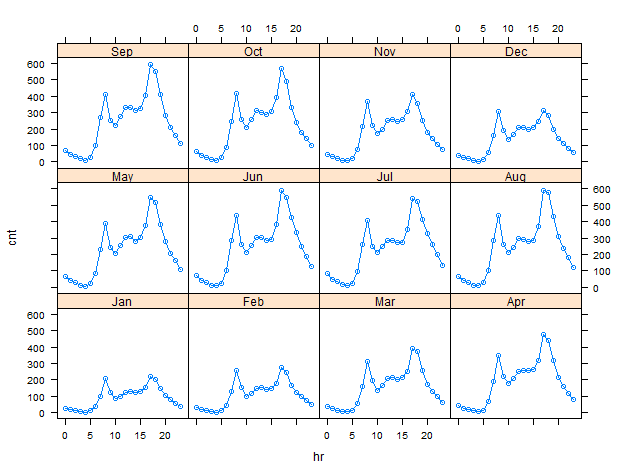
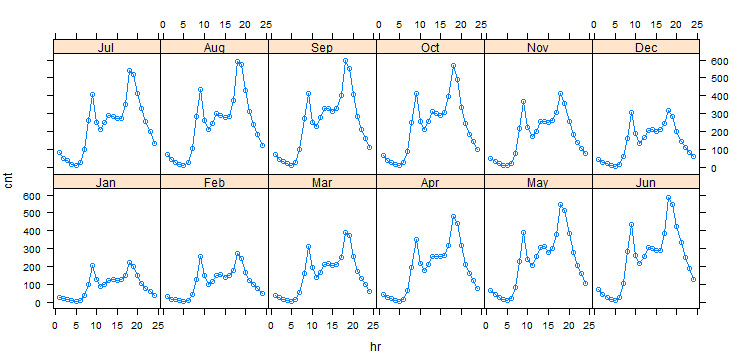
more updates in vasualization

Changed region(s): [[0.0306, 0.0311, 1.0, 0.9633], [0.0, 0.4661, 0.0306, 0.5282], [0.4903, 0.9633, 0.521, 0.9944]]

diff --git a/final_report.tex b/final_report.tex
@@ -209,10 +209,10 @@
 	
 	Moreover, the hierarchical clustering grouped atemp and temp, cnt and registered, season and month, hum and weathersit, weekday and workingday together in the lowest level.  If we want two clusters from the hierarchical clustering, we will get atemp, temp, casual, cnt, registered, season, mnth, yr as one cluster; and hum, weathersit, weekday, workingday, holiday, windspeed as the other cluster.
 	
-	These correlations give us an insight about the dataset. 	Based on the above observations, we decided to further investigate on the following relationships: 1) temp/weathersit to cnt, 2) workingday (weekday and non-holiday) to cnt, 3) hr/workingday to cnt, 4)season/mnth to cnt, 5) registered to casual. 
+	These correlations give us an insight about the dataset. 	Based on the above observations, we decided to further investigate on the following relationships: 1) temp/weathersit to cnt, 2) hr/workingday (weekday and non-holiday) to cnt,  3)season/mnth to cnt, 4) registered to casual. 
 	
 	
-	\paragraph*{Explore 1. Temp/Weathersit to Cnt} Most likely, temperature and weather influence the bike demand. We thus plotted temp against daily cnt with weather information:
+	\paragraph*{Explore 1. temp/weathersit to cnt} Most likely, temperature and weather influence the bike demand. We thus plotted temp against daily cnt with weather information:
 	\begin{figure}[H]
 		\centering
 		\includegraphics[scale=.85]{figures/temp_counts.png}
@@ -239,7 +239,7 @@
 	\end{figure}
    We can confirm the high linear correlation between temp and cnt from Figure \ref{fig:temp} since the plot is most linear. On the other hand, we can see from Figure \ref{fig:atemp} that the bike rental demand is the highest at atemp$=0.7$, it start to decrease when atemp exceeds 0.7. 
 	
-	\paragraph*{Explore 2. workingday (weekday and non-holiday) to Cnt} The bike rental demand probably shows a different pattern on weekdays and weekends. Many people rent bikes to work on weekdays, and other people rent bikes for leisure on weekends. To investigate if this affects the bike rental demand, we first plotted the counts on a typical week:
+	\paragraph*{Explore 2. hr/workingday (weekday and non-holiday) to cnt} The hourly bike rental demand probably shows a different pattern on weekdays and weekends. Many people rent bikes to work on weekdays, and other people rent bikes for leisure on weekends. To investigate if this affects the bike rental demand, we first plotted the counts on a typical week:
 	\begin{figure}[H]
 		\centering
 		\includegraphics[scale=.9]{figures/week_cnt.png}
@@ -267,39 +267,43 @@
 		\item Whenever there is a holiday on weekdays, the bike rental shows very different pattern than that of usual weekdays. It can be similar to the weekends' bike rental pattern with lower counts (Monday, Tuesday and Thursday in Figure \ref{fig:weekday_holiday}) or a combination of weekdays' pattern and weekends' pattern (Monday and Friday in Figure \ref{fig:weekday_holiday}). 
 	\end{enumerate}
 	
-	
-	\paragraph*{Explore 3.} Most certain the hour/workingday of the day also correlates with Bike demand. We can plot: 
+ Therefore, workingday (weekday and non-holiday) is a good predictor for the hourly bike counts as the following graph shows: 
 	\begin{figure}[H]
 		\centering
-		\includegraphics[scale=.85]{figures/hr_cnt.png}
+		\includegraphics[width=\linewidth]{figures/hr_cnt.png}
 	\end{figure}
 	
-	As we can see from the above figure, the bike rentals are concentrating from 7am to 7pm. Moreover, the working day and non-working day show a different pattern on bike rental. On workingday, the peak rental occurs at 7-8am, and 5-6pm which is the time people go to work and get off work. On non-workingday, the peak rentals occur from 10am to 4pm, which is the time families do outdoor activity.  From this, a bold guess is that more registered people rent on workingdays, and more casual users rent on non-working days. We confirmed this by the following conditional plot.
+	The bike rentals are concentrating from 7am to 9pm on all days.  The peak rental occurs at 8-9am and 5-6pm on workingdays and occurs from 10am to 4pm on non-workingdays. 
+	
+	%From this, a bold guess is that more registered people rent on workingdays, and more casual users rent on non-working days. We confirmed this by the following conditional plot.
 	
 	
-	\paragraph*{Explore 4.} Finally let’s see if usage varies depending on the month\ season. We first drew a boxplot. 
+	\paragraph*{Explore 3. mnth/season to cnt} Let’s see if bike rental demand depending on the month\ season. To see the relationship of month and bike rental counts, we plotted a boxplot: 
 	\begin{figure}[H]
 		\centering
-		\includegraphics[scale=.6]{figures/month_count.png}
+		\includegraphics[width=\linewidth]{figures/month_count.png}
 		\caption{Boxplot of counts on different months}
 	\end{figure}
-	
-	We can see that demand in January is the lowest and it peaks in the summer. To explore more, we drew a coplot of hourly bike counts conditioned on month.
+	The bike rental demand is the lowest in January and is the highest from May to October. To see if the bike rental patterns are similar among months, we plotted a coplot of hourly bike counts conditioned on month.
 	
 	\begin{figure}[H]
 		\centering
-		\includegraphics[scale=1]{figures/cnt_hr_mnth.png}
-		\caption{Average hourly bike rental on different month)}
+		\includegraphics[width=\linewidth]{figures/cnt_hr_mnth.png}
+		\caption{Average hourly bike rental on different month}
 	\end{figure}
-	The bike rental peaks in the month from May to October. However, the pattern of hourly rental are similar with the peak is bigger in these months. It seems that during the month from May to October, more people rent bikes for commuting to work. For example, compare October and November in the above graph, the rental are very similar except during rush hours. 
+	The bike rentals are the highest in the month from May to October, and the patterns of hourly rental are similar in these months with  the afternoon peak higher than the morning peak. The difference between the afternoon peak and the morning peak might due to the casual users going out biking in the afternoon during the summer.  From November to February, the bike rentals are low and the morning peak has similar counts as that of the afternoon peak. 
+	
+	Next, we investigated the relationship of season with bike rental counts. We first plotted a coplot of hourly counts conditioned on season:
 	
 		\begin{figure}[H]
 			\centering
-			\includegraphics[scale=.9]{figures/coplot_season.png}
+			\includegraphics[width=\linewidth]{figures/coplot_season.png}
 			\caption{Coplot of hourly counts conditional on season}
 		\end{figure}
 	
-	 Let's see if different season behave differently by a parallel coordinate plot. The following are the plots from Ggobi for different seasons.
+	 The bike demand is the highest in the fall (July to September) and is the lowest in the spring(January to March). The bike rental patterns are similar in the summer, the fall, and the winter with afternoon peak higher than morning peak. 
+	 
+	 We then used parallel coordinate plots in Ggobi to compare all attributes in different seasons:
 	 
 	 \begin{figure}[H]
 	 	\centering
@@ -328,7 +332,7 @@
 	 		\caption{Winter}
 	 	\end{minipage}
 	 \end{figure}
-	From the above plots, we can see that casual/registered users' demand are different in different seasons. The pattern is summarize in the following table. 
+	From the above plots, we noticed that casual users' bike rental demand are different than that of registered users in different seasons. The demand pattern is summarize in the following table:
 	
 	\begin{table}[H]
 		\centering
@@ -338,12 +342,12 @@
 			Registered & median, high & median, high & median, high & low, median\\
 			Casual & low & low, median, high & low, median & low \\ \hline
 		\end{tabular}
+		\caption{Bike rental demand of casual/registered users in different season}
 	\end{table}
-	
-	
-    It seems that month will give more accurate information than season in the prediction. Since these two attributes are highly correlated, we will keep month in our experiment.	
+    %It seems that month will give more accurate information than season in the prediction. Since these two attributes are highly correlated, we will keep month in our experiment.	
 		
-	\paragraph*{Explore 5.} Registered and casual users' demand Vs. workingday
+	\paragraph*{Explore 4. workingday to registered/casual}
+	We found in Explore 3 that casual users behave differently than registered users in different seasons. To see if workingdays contribute to the difference, we plotted a coplot of hourly counts conditioned on season with colored workingdays.
 	 \begin{figure}[H]
 	 	\centering
 	 	\begin{minipage}{.5\textwidth}
@@ -359,7 +363,7 @@
 	 		\label{fig:casual-cnt}
 	 	\end{minipage}
 	 \end{figure}
-	 From Figure \ref{fig:registered-cnt} and Figure \ref{fig:casual-cnt}, we can see that Registered users and casual users behave differently on workingday. More registered users rent bike on workingdays, and more casual users rent bike on non-working days.
+	 From Figure \ref{fig:registered-cnt} and Figure \ref{fig:casual-cnt}, we can see that registered users and casual users behave differently on workingdays and non-workingdays. More registered users rent bike on workingdays, and more casual users rent bike on non-working days.
 	 	\begin{figure}[H]
 	 		\centering
 	 		\includegraphics[scale=.9]{figures/coplot_registered_casual_mnth.png}
